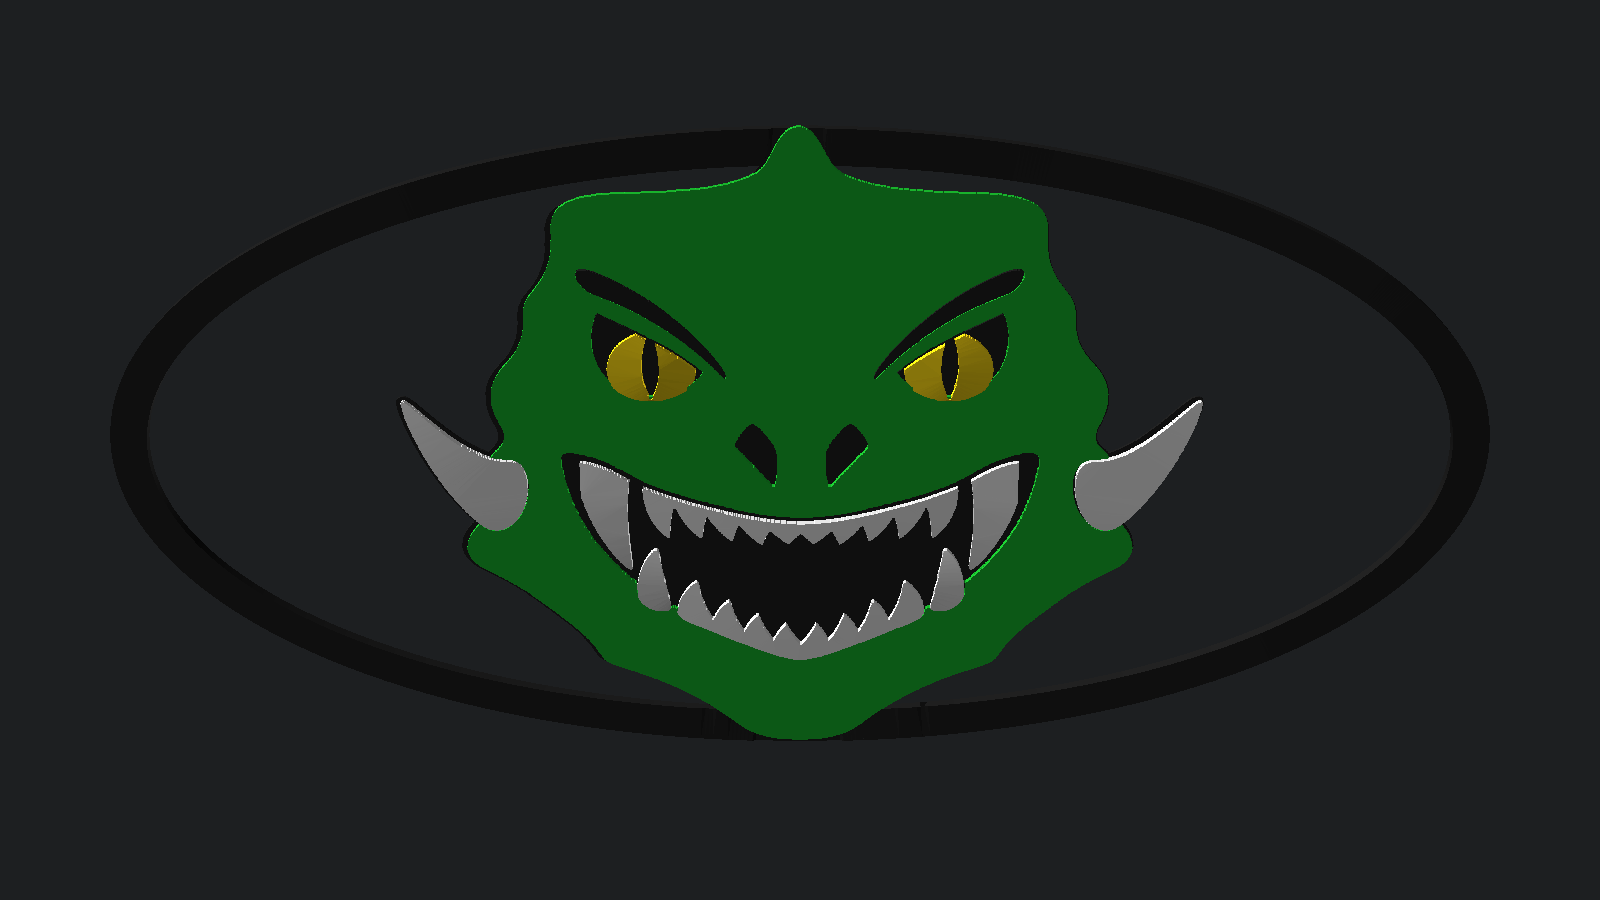
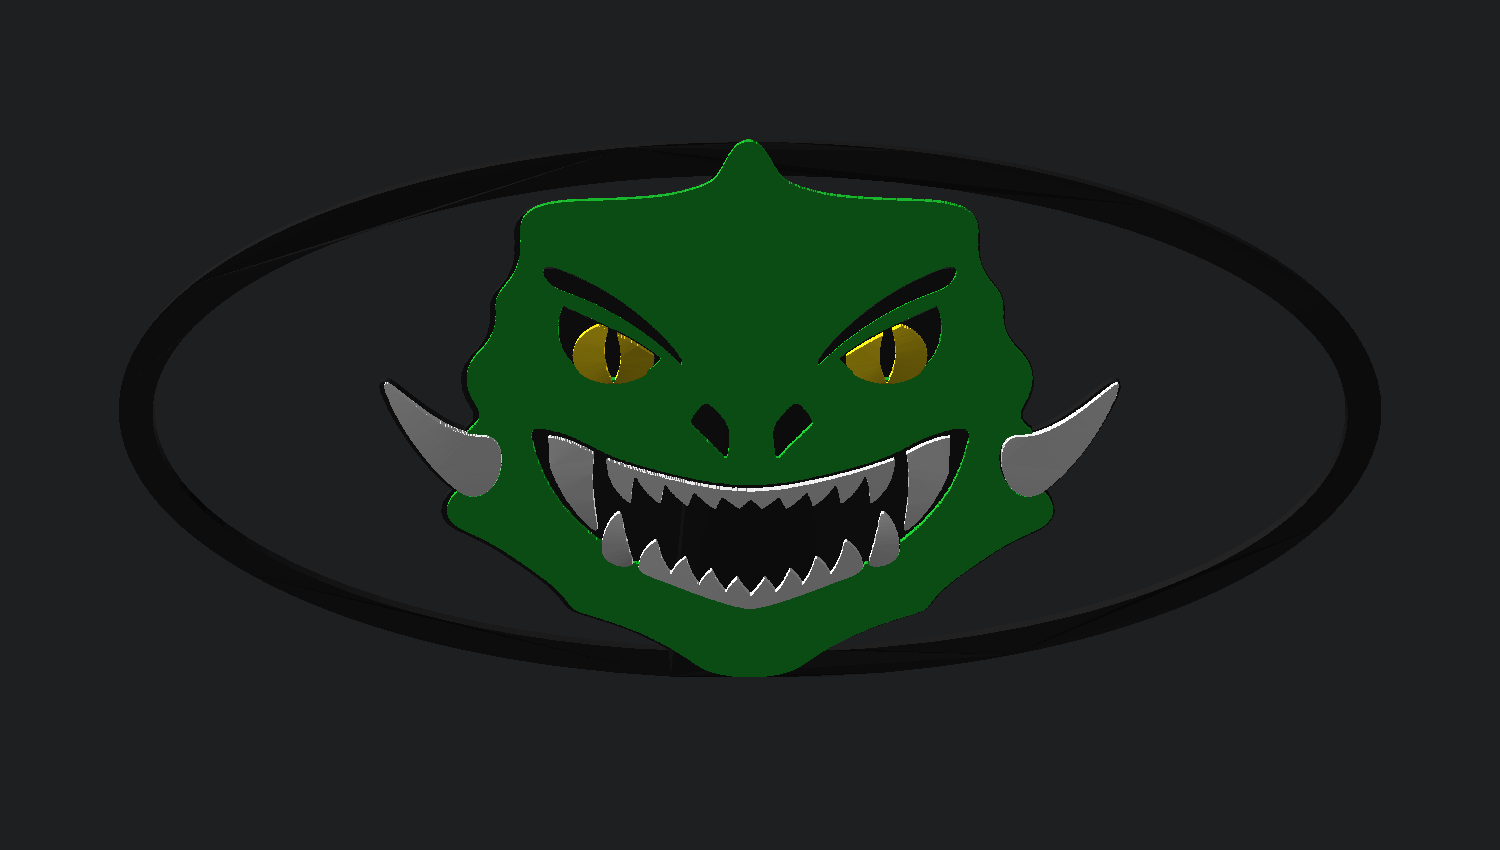
Add Orca/Anycubic-format 3MF builder; fix hood ornament for slicing
build_orca_3mf.py generates Bambu/Orca-style 3MF (the format Anycubic Slicer
Next expects): each colored mesh becomes a separate <part> in one assembled
object, with per-part extruder assignment in model_settings.config. Reuses a
reference project_settings.config so the file opens with the correct Anycubic
Kobra 3 V2 4-filament ACE profile and filament colors.

Hood ornament fixes:
- Rebuilt black_base as clean watertight extrusion from 2D footprint
  (previous Y-clamp had collapsed vertices → non-manifold edges)
- All 5 parts now watertight and manifold (verified)
- Oriented flat for printing: black base on bed (Z=0), colors build up to 2.4mm
- Centered on 420x420 bed; parts keep alignment as one assembled model
- ACE slots: 1=black (base+gaps), 2=white teeth, 3=green face, 4=yellow eyes

Claude-Session: https://claude.ai/code/session_01TGQ3CKoonA8phGzhkhJYrU

Changed region(s): [[0.2453, 0.1224, 0.7667, 0.7341], [0.368, 0.6424, 0.6747, 0.8259], [0.7667, 0.6729, 0.7973, 0.7035]]

diff --git a/build_orca_3mf.py b/build_orca_3mf.py
@@ -1,0 +1,249 @@
+#!/usr/bin/env python3
+"""
+Build an Anycubic Slicer Next / Orca / Bambu-compatible 3MF with multiple
+colored parts assigned to separate ACE extruder slots.
+
+Each input part becomes a <part> (sub-volume) inside ONE assembled <object>,
+so the slicer keeps them aligned as a single model but prints each in its
+own filament. Reuses a reference project_settings.config (printer/filament
+profile) so the file opens with the correct Anycubic Kobra 3 V2 4-color setup.
+
+Usage:
+    build_orca_3mf.py <output.3mf> <ref_dir> name1:slot:file1.stl [name2:slot:file2.stl ...]
+"""
+
+import sys
+import zipfile
+import shutil
+import json
+import numpy as np
+import trimesh
+from pathlib import Path
+
+CORE_NS = "http://schemas.microsoft.com/3dmanufacturing/core/2015/02"
+BBL_NS  = "http://schemas.bambulab.com/package/2021"
+PROD_NS = "http://schemas.microsoft.com/3dmanufacturing/production/2015/06"
+
+
+def mesh_to_xml(mesh: trimesh.Trimesh, obj_id: int, uuid_suffix: str) -> str:
+    """Serialize one mesh as a standalone <object> with <mesh>."""
+    lines = [
+        f'  <object id="{obj_id}" p:UUID="000d0000-0000-4000-8000-{uuid_suffix:0>12}" type="model">',
+        '   <mesh>',
+        '    <vertices>',
+    ]
+    v = mesh.vertices
+    lines.append("".join(
+        f'<vertex x="{x:.6f}" y="{y:.6f}" z="{z:.6f}"/>' for x, y, z in v
+    ))
+    lines.append('    </vertices>')
+    lines.append('    <triangles>')
+    lines.append("".join(
+        f'<triangle v1="{a}" v2="{b}" v3="{c}"/>' for a, b, c in mesh.faces
+    ))
+    lines.append('    </triangles>')
+    lines.append('   </mesh>')
+    lines.append('  </object>')
+    return "\n".join(lines)
+
+
+def build(output_path: Path, ref_dir: Path, parts: list[dict]):
+    """
+    parts: list of {name, slot (1-based extruder), mesh (trimesh), color (#hex)}
+    """
+    tmp = output_path.parent / (output_path.stem + "_build")
+    if tmp.exists():
+        shutil.rmtree(tmp)
+    (tmp / "3D" / "Objects").mkdir(parents=True)
+    (tmp / "3D" / "_rels").mkdir(parents=True)
+    (tmp / "Metadata").mkdir(parents=True)
+    (tmp / "_rels").mkdir(parents=True)
+
+    # ── Orient for printing: layer axis (Y) → build axis (Z) ────────────
+    # Source meshes stack colors along +Y. Rotate +90° about X so the badge
+    # lies flat on the bed (black base down, colors building up in +Z).
+    rot = trimesh.transformations.rotation_matrix(np.pi / 2, [1, 0, 0])
+    for p in parts:
+        p["mesh"].apply_transform(rot)
+
+    # ── Center in XY, rest flat on the bed (min Z = 0) ──────────────────
+    all_v = np.vstack([p["mesh"].vertices for p in parts])
+    cx = (all_v[:, 0].min() + all_v[:, 0].max()) / 2
+    cy = (all_v[:, 1].min() + all_v[:, 1].max()) / 2
+    min_z = all_v[:, 2].min()
+    for p in parts:
+        p["mesh"].apply_translation([-cx, -cy, -min_z])
+    all_v = np.vstack([p["mesh"].vertices for p in parts])
+
+    # ── Per-part geometry: one .model file per part (matches reference) ──
+    geo_files = []  # (objectid, path)
+    for i, p in enumerate(parts, start=1):
+        rel = f"3D/Objects/part_{i}_{p['name']}.model"
+        geo_model = (
+            '<?xml version="1.0" encoding="UTF-8"?>\n'
+            f'<model unit="millimeter" xml:lang="en-US" xmlns="{CORE_NS}" '
+            f'xmlns:BambuStudio="{BBL_NS}" xmlns:p="{PROD_NS}" requiredextensions="p">\n'
+            ' <metadata name="BambuStudio:3mfVersion">1</metadata>\n'
+            ' <resources>\n'
+            + mesh_to_xml(p["mesh"], i, f"{i:012d}") +
+            '\n </resources>\n <build/>\n</model>\n'
+        )
+        (tmp / rel).write_text(geo_model)
+        geo_files.append((i, rel))
+
+    # ── Main 3dmodel.model: one assembled object referencing all parts ──
+    ASSEMBLED_ID = 100
+    components = "\n".join(
+        f'    <component p:path="/{rel}" objectid="{oid}" '
+        f'p:UUID="000d0000-0000-4000-9000-{oid:012d}" '
+        f'transform="1 0 0 0 1 0 0 0 1 0 0 0"/>'
+        for oid, rel in geo_files
+    )
+    main_model = (
+        '<?xml version="1.0" encoding="UTF-8"?>\n'
+        f'<model unit="millimeter" xml:lang="en-US" xmlns="{CORE_NS}" '
+        f'xmlns:BambuStudio="{BBL_NS}" xmlns:p="{PROD_NS}" requiredextensions="p">\n'
+        ' <metadata name="Application">CasaDeHodson-3DBuilder</metadata>\n'
+        ' <metadata name="BambuStudio:3mfVersion">1</metadata>\n'
+        ' <metadata name="Copyright"></metadata>\n'
+        ' <metadata name="CreationDate">2026-06-27</metadata>\n'
+        ' <metadata name="ModificationDate">2026-06-27</metadata>\n'
+        ' <resources>\n'
+        f'  <object id="{ASSEMBLED_ID}" p:UUID="00000064-0000-4000-8000-000000000064" type="model">\n'
+        '   <components>\n'
+        f'{components}\n'
+        '   </components>\n'
+        '  </object>\n'
+        ' </resources>\n'
+        ' <build p:UUID="00000001-0000-4000-8000-000000000001">\n'
+        # Place at bed center of Kobra 3 Max (420/2 = 210), resting on bed (Z=0).
+        f'  <item objectid="{ASSEMBLED_ID}" p:UUID="00000002-0000-4000-8000-000000000002" '
+        f'transform="1 0 0 0 1 0 0 0 1 210 210 0" printable="1"/>\n'
+        ' </build>\n</model>\n'
+    )
+    (tmp / "3D" / "3dmodel.model").write_text(main_model)
+
+    # ── model_settings.config: assign extruder per part ─────────────────
+    part_xml = []
+    for i, p in enumerate(parts, start=1):
+        part_xml.append(
+            f'    <part id="{i}" subtype="normal_part">\n'
+            f'      <metadata key="name" value="{p["name"]}"/>\n'
+            f'      <metadata key="matrix" value="1 0 0 0 1 0 0 0 1 0 0 0 0 0 0 1"/>\n'
+            f'      <metadata key="extruder" value="{p["slot"]}"/>\n'
+            f'      <mesh_stat edges_fixed="0" degenerate_facets="0" facets_removed="0" '
+            f'facets_reversed="0" backwards_edges="0"/>\n'
+            f'    </part>'
+        )
+    model_settings = (
+        '<?xml version="1.0" encoding="UTF-8"?>\n<config>\n'
+        f'  <object id="{ASSEMBLED_ID}">\n'
+        '    <metadata key="name" value="hood_ornament"/>\n'
+        '    <metadata key="extruder" value="1"/>\n'
+        + "\n".join(part_xml) + "\n"
+        '  </object>\n'
+        '  <plate>\n'
+        '    <metadata key="plater_id" value="1"/>\n'
+        '    <metadata key="plater_name" value=""/>\n'
+        '    <metadata key="locked" value="false"/>\n'
+        '    <model_instance>\n'
+        f'      <metadata key="object_id" value="{ASSEMBLED_ID}"/>\n'
+        '      <metadata key="instance_id" value="0"/>\n'
+        '    </model_instance>\n'
+        '  </plate>\n'
+        '</config>\n'
+    )
+    (tmp / "Metadata" / "model_settings.config").write_text(model_settings)
+
+    # ── project_settings.config: reuse reference profile, set our colors ─
+    ref_cfg = ref_dir / "Metadata" / "project_settings.config"
+    cfg = json.loads(ref_cfg.read_text())
+    colors = [p["color"] for p in parts]
+    n = len(parts)
+    cfg["filament_colour"] = colors
+    # Pad single-value/per-filament lists to n entries where appropriate
+    def padlist(key, n):
+        if key in cfg and isinstance(cfg[key], list) and len(cfg[key]) >= 1:
+            base = cfg[key]
+            if len(base) < n:
+                cfg[key] = [base[0]] * n
+            else:
+                cfg[key] = base[:n]
+    for key in ["filament_type","filament_settings_id","filament_ids","filament_vendor",
+                "nozzle_temperature","nozzle_temperature_initial_layer","filament_diameter",
+                "filament_density","filament_cost","filament_flow_ratio","filament_max_volumetric_speed",
+                "default_filament_colour","filament_is_support"]:
+        padlist(key, n)
+    (tmp / "Metadata" / "project_settings.config").write_text(json.dumps(cfg, indent=4))
+
+    # ── slice_info.config (minimal) ─────────────────────────────────────
+    slice_info = (
+        '<?xml version="1.0" encoding="UTF-8"?>\n'
+        '<config>\n'
+        '  <header>\n'
+        '    <header_item key="X-BBL-Client-Type" value="slicer"/>\n'
+        '    <header_item key="X-BBL-Client-Version" value="01.03.09.03"/>\n'
+        '  </header>\n'
+        '  <plate>\n'
+        '    <metadata key="index" value="1"/>\n'
+        f'    <metadata key="filament_colors" value="{ ",".join(colors) }"/>\n'
+        '  </plate>\n'
+        '</config>\n'
+    )
+    (tmp / "Metadata" / "slice_info.config").write_text(slice_info)
+
+    # ── Relationship + content-type files ──────────────────────────────
+    (tmp / "[Content_Types].xml").write_text(
+        '<?xml version="1.0" encoding="UTF-8"?>\n'
+        '<Types xmlns="http://schemas.openxmlformats.org/package/2006/content-types">\n'
+        ' <Default Extension="rels" ContentType="application/vnd.openxmlformats-package.relationships+xml"/>\n'
+        ' <Default Extension="model" ContentType="application/vnd.ms-package.3dmanufacturing-3dmodel+xml"/>\n'
+        ' <Default Extension="png" ContentType="image/png"/>\n'
+        ' <Default Extension="gcode" ContentType="text/x.gcode"/>\n'
+        '</Types>\n'
+    )
+    (tmp / "_rels" / ".rels").write_text(
+        '<?xml version="1.0" encoding="UTF-8"?>\n'
+        '<Relationships xmlns="http://schemas.openxmlformats.org/package/2006/relationships">\n'
+        ' <Relationship Target="/3D/3dmodel.model" Id="rel-1" '
+        'Type="http://schemas.microsoft.com/3dmanufacturing/2013/01/3dmodel"/>\n'
+        '</Relationships>\n'
+    )
+    geo_rels = "\n".join(
+        f' <Relationship Target="/{rel}" Id="rel-{oid}" '
+        'Type="http://schemas.microsoft.com/3dmanufacturing/2013/01/3dmodel"/>'
+        for oid, rel in geo_files
+    )
+    (tmp / "3D" / "_rels" / "3dmodel.model.rels").write_text(
+        '<?xml version="1.0" encoding="UTF-8"?>\n'
+        '<Relationships xmlns="http://schemas.openxmlformats.org/package/2006/relationships">\n'
+        f'{geo_rels}\n'
+        '</Relationships>\n'
+    )
+
+    # ── Zip it up ───────────────────────────────────────────────────────
+    if output_path.exists():
+        output_path.unlink()
+    with zipfile.ZipFile(output_path, "w", zipfile.ZIP_DEFLATED) as zf:
+        for f in sorted(tmp.rglob("*")):
+            if f.is_file():
+                zf.write(f, f.relative_to(tmp).as_posix())
+    shutil.rmtree(tmp)
+    return output_path
+
+
+if __name__ == "__main__":
+    out  = Path(sys.argv[1])
+    ref  = Path(sys.argv[2])
+    spec = sys.argv[3:]
+    parts = []
+    # default color cycle if not given: name:slot:file[:#hex]
+    DEFAULT_COLORS = ["#000000", "#FFFFFF", "#1AB82E", "#FFDC14"]
+    for i, s in enumerate(spec):
+        bits = s.split(":")
+        name, slot, fpath = bits[0], int(bits[1]), bits[2]
+        color = bits[3] if len(bits) > 3 else DEFAULT_COLORS[i % len(DEFAULT_COLORS)]
+        mesh = trimesh.load(fpath, force="mesh")
+        parts.append({"name": name, "slot": slot, "mesh": mesh, "color": color})
+    result = build(out, ref, parts)
+    print(f"Built {result}  ({result.stat().st_size//1024} KB)")